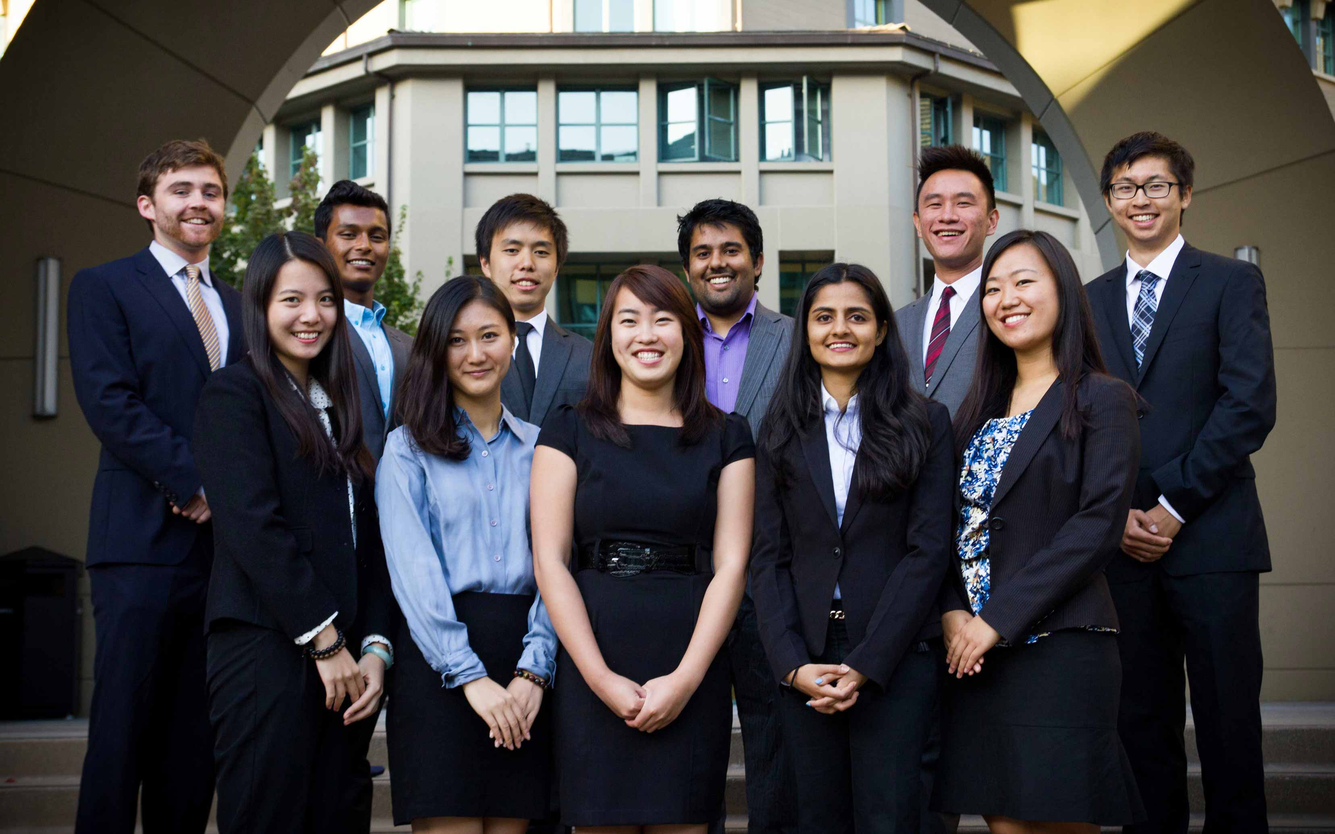
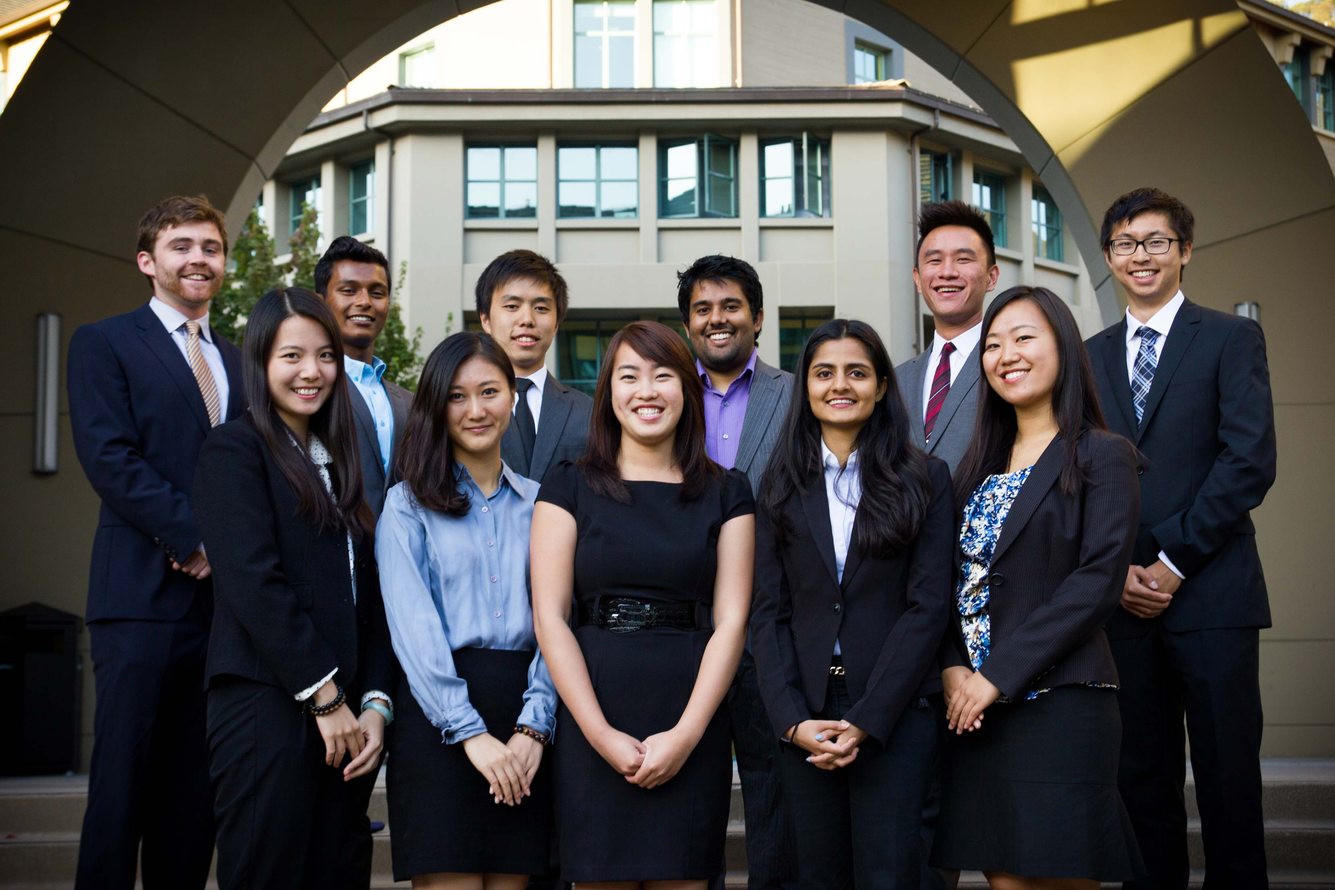
optimize images, change scroll speed (.55)

diff --git a/index.php b/index.php
@@ -21,10 +21,10 @@
 	<div id="trigger1"></div>
 	<div id="left-bar-1" class="left-bar">
 		<div class="bar-text">
-			<h1>People</h1>
-			<p>Consultants are selected from a diverse range of backgrounds and rank
-			 at the top of their classes. Alumni have gone to prestigious institutions
-			  such as Goldman Sachs, Bain &amp; Company, and Apple.</p>
+			<h1>Culture</h1>
+			<p>At the heart of Voyager, there is more than a consulting club;
+			there is a family who strives to create an enriching personal and
+			professional experience for every member.</p>
 			<a id="end-transparent" type="button" href="careers.php" class="btn btn-default whitebutton">Careers</a>
 		</div>
 	</div>
@@ -38,10 +38,10 @@
 	<div id="trigger2"></div>
 	<div id="right-bar-1" class="right-bar">
 		<div class="bar-text">
-			<h1>Culture</h1>
-			<p>At the heart of Voyager, there is more than a consulting club;
-			there is a family who strives to create an enriching personal and
-			professional experience for every member.</p>
+			<h1>People</h1>
+			<p>Consultants are selected from a diverse range of backgrounds and rank
+			 at the top of their classes. Alumni have gone to prestigious institutions
+			  such as Goldman Sachs, Bain &amp; Company, and Apple.</p>
 			<a type="button" href="about.php" class="btn btn-default whitebutton">About</a>
 		</div>
 	</div>

diff --git a/notfound.php b/notfound.php
@@ -1,16 +1,9 @@
 <?php include 'header.php';?>
 
 
-    <div class="page-header-pic" data-parallax="scroll" data-speed="0.7" data-image-src="assets/images/notfound.jpg">
+    <div class="page-header-pic" data-parallax="scroll" data-speed="0.8" data-image-src="assets/images/notfound.jpg">
     	<h1 class="lead">404</h1>
     </div>
-<!-- 	<section class="head head-img" id="notfound" data-type="background">
-	    <div class="container">
-				<div class="row">
-					<h1 class="lead">404</h1>			
-				</div>
-			</div>
-	</section> -->
 
 	<div class="container">
 

diff --git a/apply.php b/apply.php
@@ -1,12 +1,8 @@
 <?php include 'header.php';?>
 
-    <section class="head head-img" id="notfound" data-type="background">
-        <div class="container">
-                <div class="row">
-                    <h1 class="lead">Page Redirection</h1>           
-                </div>
-            </div>
-    </section>
+    <div class="page-header-pic" data-parallax="scroll" data-speed="0.8" data-image-src="assets/images/notfound.jpg">
+        <h1 class="lead">Page Redirection</h1>
+    </div>
 
     <div class="container">
 

diff --git a/contact.php b/contact.php
@@ -1,7 +1,7 @@
 <?php include 'header.php';?>
 
 
-        <div class="page-header-pic" data-parallax="scroll" data-speed="0.7" data-image-src="assets/images/contact.jpg">
+        <div class="page-header-pic" data-parallax="scroll" data-speed="0.55" data-image-src="assets/images/contact.jpg">
         	<h1 class="lead">Contact</h1>
         </div>
 

diff --git a/services.php b/services.php
@@ -1,6 +1,6 @@
 <?php include 'header.php';?>
 
-    <div class="page-header-pic" data-parallax="scroll" data-speed="0.7" data-image-src="assets/images/services.jpg">
+    <div class="page-header-pic" data-parallax="scroll" data-speed="0.55" data-image-src="assets/images/services.jpg">
     	<h1 class="lead">Services</h1>
     </div>
 

diff --git a/recruiting.php b/recruiting.php
@@ -1,6 +1,6 @@
 <?php include 'header.php';?>
 
-    <div class="page-header-pic" data-parallax="scroll" data-speed="0.7" data-image-src="assets/images/apply.jpg">
+    <div class="page-header-pic" data-parallax="scroll" data-speed="0.55" data-image-src="assets/images/apply.jpg">
         <h1 class="lead">Recruiting</h1>
     </div>
 

diff --git a/careers.php b/careers.php
@@ -1,5 +1,5 @@
 <?php include 'header.php';?>
-    <div class="page-header-pic" data-parallax="scroll" data-speed="0.7" data-image-src="assets/images/careers.jpg">
+    <div class="page-header-pic" data-parallax="scroll" data-speed="0.55" data-image-src="assets/images/careers.jpg">
         <h1 class="lead">Careers</h1>
     </div>
 

diff --git a/about.php b/about.php
@@ -1,6 +1,6 @@
 <?php include 'header.php';?>
 
-	<div class="page-header-pic" data-parallax="scroll" data-speed="0.7" data-image-src="assets/images/team.jpg">
+	<div class="page-header-pic" data-parallax="scroll" data-speed="0.27" data-image-src="assets/images/team.jpg">
 	</div>
 
 	<div class="container">
